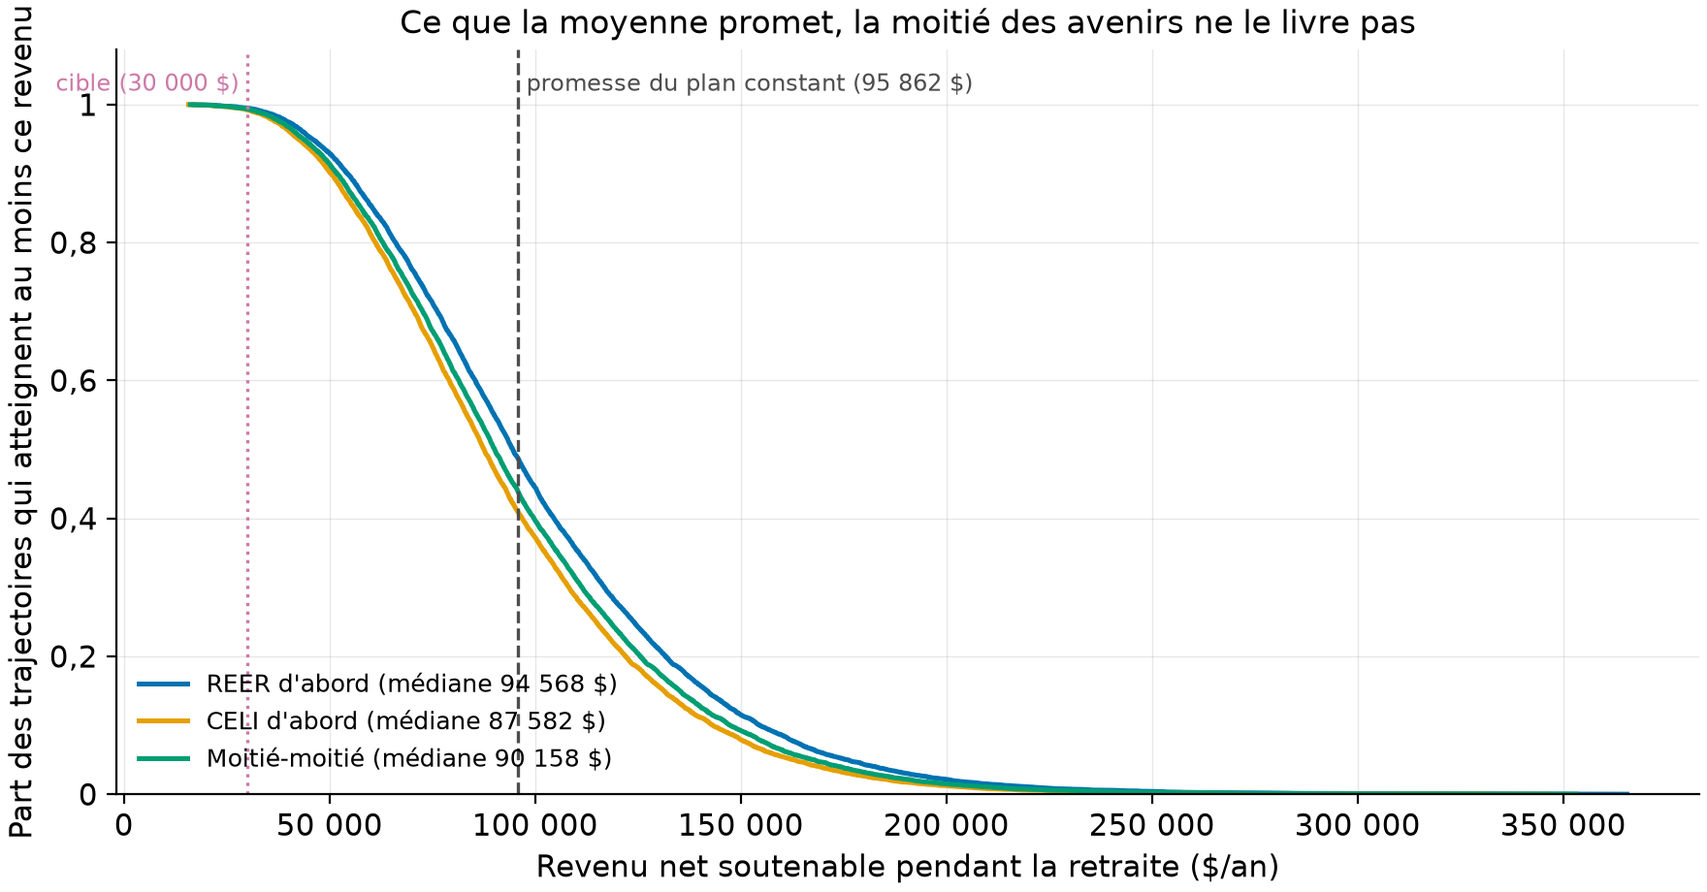
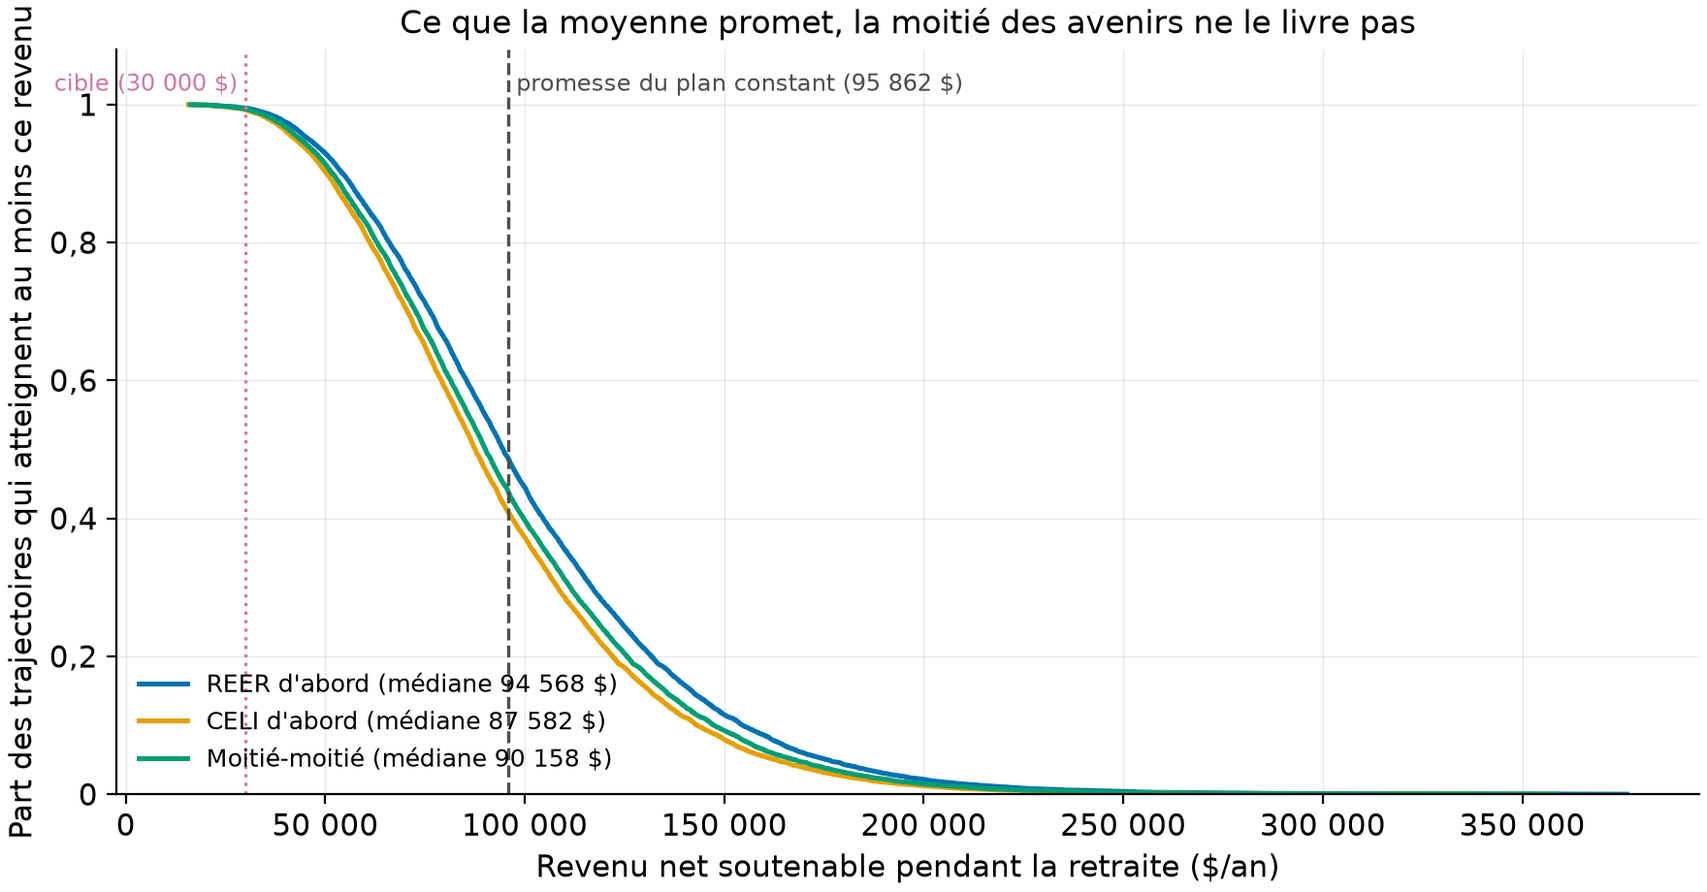
Contre-vérification : convention du remboursement déclarée et testée, borne de bissection prouvée
Trois vérificateurs (fiscalité, Monte Carlo, chiffres) ont retrouvé les
26 chiffres publiés au cent près avec des moteurs indépendants. Retouches :
le renversement du classement quand le remboursement d'impôt est dépensé
(-18,9 % au cas type) devient une option du moteur, un test et une limite ;
la borne haute de la bissection du revenu soutenable est remplacée par un
majorant prouvé (la richesse nette initiale) et testée contre l'annuité
due à rendement constant ; l'échec au scénario prudent est réécrit
« environ un sur dix » (8,8 à 12,0 %) au lieu d'« un sur vingt » ; le
prudent est décrit tel que codé (2/12 pt par mois, 2,1 pts composés) ;
48,7 % au lieu de 48 ; x3,2 au lieu du « simple au triple » ; 43 % au lieu
de « presque par deux » ; mois final tronqué et taux NI en décumulation
déclarés.

diff --git a/src/pec/fiscal.py b/src/pec/fiscal.py
@@ -1,13 +1,18 @@
 """Le moteur fiscal simplifié des trois comptes : REER, CELI, non enregistré.
 
 Toutes les règles sont des conventions déclarées, pas un barème réel :
-- REER : la cotisation est déductible ; le remboursement d'impôt est réinvesti immédiatement
-  dans le REER (convention du « grossing up » : un budget après impôt b achète b/(1 - tau_actif)
-  de cotisation brute) ; le retrait est imposé au taux marginal de retraite.
+- REER : la cotisation est déductible et se fait en dollars AVANT impôt ; la chaîne complète
+  des remboursements d'impôt est réinvestie (le remboursement, puis le remboursement du
+  remboursement, etc.), ce qui équivaut à cotiser b/(1 - tau_actif) pour un budget après
+  impôt b (convention du « grossing up ») ; le retrait est imposé au taux marginal de
+  retraite. Si le remboursement était DÉPENSÉ plutôt que réinvesti, le classement des ordres
+  s'inverserait : la convention porte le verdict, et c'est déclaré dans le README.
 - CELI : cotisé après impôt, croissance et retraits libres d'impôt.
 - Non enregistré : cotisé après impôt ; les gains sont réputés réalisés chaque année et imposés
-  à l'inclusion de 50 %, les pertes créditées immédiatement (simplification déclarée, prudente
-  pour les gains, généreuse pour les pertes).
+  à l'inclusion de 50 % AU TAUX DE LA VIE ACTIVE, y compris pendant la décumulation
+  (convention déclarée ; sans effet sur les chiffres publiés, le compte restant vide au cas
+  type), les pertes créditées immédiatement (simplification déclarée, prudente pour les
+  gains, généreuse pour les pertes).
 
 La vérité analytique qui sert de test : à taux marginaux égaux et sans plafond, REER et CELI
 produisent EXACTEMENT la même richesse finale ; le REER ne gagne que si le taux de retraite est
@@ -28,6 +33,7 @@ class Fiscalite:
     inclusion_gain: float = 0.5       # inclusion des gains en capital (rapporté, règle générale)
     plafond_celi: float = 7_000.0     # droits annuels 2026 (rapporté)
     plafond_reer: float = 12_960.0    # 18 % d'un revenu de 72 000 $ (cas type, précepte)
+    remboursement_reinvesti: bool = True   # False : le remboursement d'impôt REER est dépensé
 
 
 ORDRES = ("reer_d_abord", "celi_d_abord", "moitie_moitie")
@@ -42,11 +48,14 @@ def cotiser(budget: float, ordre: str, f: Fiscalite) -> tuple[float, float, floa
     """Répartit un budget APRÈS IMPÔT d'une année entre REER (brut), CELI et non enregistré."""
     if ordre not in ORDRES:
         raise ValueError(f"ordre inconnu : {ordre}")
-    cout_reer_plein = f.plafond_reer * (1.0 - f.tau_actif)   # coût après impôt du REER plafonné
+    # remboursement réinvesti : un budget après impôt b achète b/(1-t) de cotisation brute ;
+    # remboursement dépensé : il n'achète que b, et le REER perd l'essentiel de son avantage
+    gross = 1.0 / (1.0 - f.tau_actif) if f.remboursement_reinvesti else 1.0
+    cout_reer_plein = f.plafond_reer / gross                 # coût après impôt du REER plafonné
     reer_brut = celi = ni = 0.0
     if ordre == "reer_d_abord":
         b = min(budget, cout_reer_plein)
-        reer_brut = b / (1.0 - f.tau_actif)
+        reer_brut = b * gross
         reste = budget - b
         celi = min(reste, f.plafond_celi)
         ni = reste - celi
@@ -54,11 +63,11 @@ def cotiser(budget: float, ordre: str, f: Fiscalite) -> tuple[float, float, floa
         celi = min(budget, f.plafond_celi)
         reste = budget - celi
         b = min(reste, cout_reer_plein)
-        reer_brut = b / (1.0 - f.tau_actif)
+        reer_brut = b * gross
         ni = reste - b
     else:                                                   # moitie_moitie
         b = min(budget / 2.0, cout_reer_plein)
-        reer_brut = b / (1.0 - f.tau_actif)
+        reer_brut = b * gross
         celi = min(budget / 2.0, f.plafond_celi)
         ni = budget - b - celi
     return reer_brut, celi, ni
@@ -110,8 +119,12 @@ def richesse_nette(reer: float, celi: float, ni: float, f: Fiscalite) -> float:
 
 def revenu_soutenable(reer: float, celi: float, ni: float, rendements_annuels: np.ndarray,
                       f: Fiscalite, tol: float = 1.0) -> float:
-    """Le revenu net constant qui épuise exactement le patrimoine sur l'horizon, par bissection."""
-    bas, haut = 0.0, richesse_nette(reer, celi, ni, f) * 2.0 / max(len(rendements_annuels), 1) + 1e5
+    """Le revenu net constant qui épuise exactement le patrimoine sur l'horizon, par bissection.
+
+    Le premier retrait précède toute croissance : le revenu constant ne peut donc jamais
+    dépasser la richesse nette initiale, qui sert de borne haute prouvée.
+    """
+    bas, haut = 0.0, richesse_nette(reer, celi, ni, f) + 1.0
     while haut - bas > tol:
         mid = (bas + haut) / 2.0
         annees, _ = decumuler(reer, celi, ni, rendements_annuels, mid, f)

diff --git a/tests/test_pec.py b/tests/test_pec.py
@@ -75,6 +75,24 @@ def test_revenu_soutenable_retrouve_la_forme_fermee():
     f = Fiscalite(tau_actif=0.35, tau_retraite=0.25)
     rev = revenu_soutenable(0.0, 750_000.0, 0.0, np.zeros(25), f)
     assert rev == pytest.approx(30_000.0, abs=2.0)
+    # rendement constant non nul : annuité due, C = W (1 - v) / (1 - v^M), v = 1/(1+r)
+    r, w, m = 0.12, 5_000_000.0, 25
+    v = 1.0 / (1.0 + r)
+    attendu = w * (1.0 - v) / (1.0 - v**m)
+    assert revenu_soutenable(0.0, w, 0.0, np.full(m, r), f) == pytest.approx(attendu, abs=2.0)
+
+
+def test_remboursement_depense_renverse_le_classement():
+    # la convention porte le verdict : remboursement dépensé, le REER perd son avantage
+    from pec.fiscal import richesse_nette
+
+    r = np.full(30, 0.05)
+    f = Fiscalite(tau_actif=0.35, tau_retraite=0.25, remboursement_reinvesti=False)
+    w = {}
+    for ordre in ("reer_d_abord", "celi_d_abord"):
+        reer, celi, ni = accumuler(r, 10_000.0, ordre, f)
+        w[ordre] = richesse_nette(reer, celi, ni, f)
+    assert w["celi_d_abord"] > w["reer_d_abord"]
 
 
 def test_bootstrap_reproductible_et_calibre():

diff --git a/src/pec/simulate.py b/src/pec/simulate.py
@@ -79,10 +79,14 @@ def decumuler_vec(reer0: np.ndarray, celi0: np.ndarray, ni0: np.ndarray, ret: np
 
 def revenu_soutenable_vec(reer: np.ndarray, celi: np.ndarray, ni: np.ndarray, ret: np.ndarray,
                           f: Fiscalite, n_iter: int = 40) -> np.ndarray:
-    """Le revenu net constant qui épuise exactement chaque trajectoire, par bissection vectorielle."""
+    """Le revenu net constant qui épuise exactement chaque trajectoire, par bissection vectorielle.
+
+    Borne haute prouvée : la richesse nette initiale, car le premier retrait précède toute
+    croissance (l'ancienne borne en richesse/horizon plafonnait quelques trajectoires extrêmes).
+    """
     n_annees = ret.shape[1]
     bas = np.zeros(len(reer))
-    haut = richesse_nette(reer, celi, ni, f) * 2.0 / max(n_annees, 1) + 1e5
+    haut = richesse_nette(reer, celi, ni, f) + 1.0
     for _ in range(n_iter):
         mid = (bas + haut) / 2.0
         annees, _ = decumuler_vec(reer, celi, ni, ret, mid, f)

diff --git a/src/pec/data.py b/src/pec/data.py
@@ -27,7 +27,11 @@ def fetch() -> None:
 
 
 def load_portfolio_returns() -> pd.Series:
-    """Les rendements mensuels du portefeuille de politique, sur l'échantillon commun des six FNB."""
+    """Les rendements mensuels du portefeuille de politique, sur l'échantillon commun des six FNB.
+
+    Le dernier mois est retenu tel que téléchargé, même s'il est incomplet au jour du fetch
+    (convention déclarée ; l'effet mesuré sur le composé 2002-2026 est de 0,04 point).
+    """
     px = pd.read_csv(RAW / "prix_fnb.csv", index_col=0, parse_dates=True)
     monthly = px.resample("ME").last()
     rets = monthly.pct_change()

diff --git a/README.md b/README.md
@@ -10,9 +10,11 @@ tests analytiques exacts. Le seul dépôt du portfolio écrit pour un client fin
 1. **À taux d'imposition égaux, REER et CELI sont EXACTEMENT équivalents.** Ce n'est pas une
    opinion, c'est une identité algébrique, et le simulateur la retrouve à 1e-12 près (testé).
    Tout l'avantage du REER tient dans l'écart entre le taux marginal d'aujourd'hui et celui
-   de la retraite : au cas type (35 % actif, 25 % retraité), REER d'abord bat CELI d'abord
-   de 8,0 % de richesse nette médiane (1 193 538 $ contre 1 105 368 $, mesuré). La carte des
-   taux donne le verdict pour tous les autres profils.
+   de la retraite, POURVU que le remboursement d'impôt soit réinvesti : au cas type (35 %
+   actif, 25 % retraité), REER d'abord bat CELI d'abord de 8,0 % de richesse nette médiane
+   (1 193 538 $ contre 1 105 368 $, mesuré) ; le remboursement dépensé, le classement
+   s'inverse (-18,9 %, mesuré, testé). La carte des taux donne le verdict pour tous les
+   autres profils.
 2. **Ce que la moyenne promet, un avenir sur vingt n'en livre pas la moitié.** Le plan « sur
    papier » à rendement constant (7,17 %/an, le composé 2002-2026 du portefeuille) promet un
    revenu de retraite net de 95 862 $/an ; la médiane simulée le tient (94 568 $), mais le
@@ -37,12 +39,15 @@ une distribution.
 
 ## Le moteur fiscal, en conventions déclarées
 
-Trois comptes, trois traitements. Le REER, cotisé en argent AVANT impôt : la déduction est
-réinvestie immédiatement (convention du « grossing up » : un budget après impôt b achète
-b/(1 - t) de cotisation brute), et le retrait est imposé au taux de la retraite. Le CELI,
-cotisé après impôt, croît et se retire sans impôt. Le compte non enregistré, cotisé après
-impôt, subit chaque année un impôt sur ses gains à l'inclusion de 50 % (gains réputés
-réalisés annuellement, pertes créditées immédiatement : simplification déclarée).
+Trois comptes, trois traitements. Le REER, cotisé en dollars AVANT impôt : la chaîne
+complète des remboursements d'impôt est réinvestie (le remboursement, puis le remboursement
+du remboursement, et ainsi de suite), ce qui équivaut à cotiser b/(1 - t) pour un budget
+après impôt b (convention du « grossing up », déclarée ; l'option `remboursement_reinvesti`
+du moteur permet de la couper, et la limite 1 dit ce que cela renverse) ; le retrait est
+imposé au taux de la retraite. Le CELI, cotisé après impôt, croît et se retire sans impôt.
+Le compte non enregistré, cotisé après impôt, subit chaque année un impôt sur ses gains à
+l'inclusion de 50 % au taux de la vie active, décumulation comprise (gains réputés réalisés
+annuellement, pertes créditées immédiatement : simplifications déclarées).
 
 La vérité connue qui verrouille le moteur : à taux égaux et sans plafond,
 
@@ -67,7 +72,8 @@ séparent les trois ordres de remplissage quand les taux sont égaux.
 35 % pendant la vie active, 25 % à la retraite (chiffres ronds, pas un barème). Les
 rendements viennent du portefeuille de politique du dépôt 03 (XIU 25 %, XSP 20 %, XIN 15 %,
 XRE 5 %, XBB 25 %, XSB 10 %, mêmes poids, déclaré) : 286 rendements mensuels, 2002-11 à
-2026-08, via yfinance (usage personnel, jamais commité).
+2026-08, via yfinance (usage personnel, jamais commité ; le dernier mois est tronqué au
+jour du téléchargement, effet de 0,04 point sur le composé, déclaré).
 
 Le Monte Carlo tire des blocs de 12 mois CONSÉCUTIFS à départ aléatoire : les enchaînements
 d'une année de crise (2008, 2020, 2022) restent intacts, les années sont indépendantes entre
@@ -107,21 +113,23 @@ lisez votre case.
 contient la moitié centrale des avenirs, la bande pâle en contient 90 %. La ligne pointillée
 est le plan à rendement constant : il suit la médiane presque exactement (1 517 321 $ contre
 1 535 877 $ à l'an 30), et c'est le piège : le chiffre unique du planificateur est BON en
-espérance et muet sur l'éventail, qui va du simple au triple entre p5 et p95.
+espérance et muet sur l'éventail, qui fait plus que tripler entre p5 et p95 (x3,2 à
+l'an 30, mesuré).
 
 ![Revenu soutenable](results/figures/revenu_soutenable.png)
 
 **Comment lire cette figure.** Pour chaque revenu en abscisse, la part des trajectoires
 capables de le servir pendant 25 ans. La ligne verticale grise est la promesse du plan
-constant (95 862 $) : un peu moins de la moitié des avenirs la tiennent (48 % en REER
-d'abord, lisible à l'intersection). La cible de 30 000 $ (pointillé) est quasi sûre sur
+constant (95 862 $) : 48,7 % des avenirs la tiennent en REER d'abord (mesuré, lisible à
+l'intersection). La cible de 30 000 $ (pointillé) est quasi sûre sur
 l'historique brut ; le tableau prudent ci-dessous la met à l'épreuve.
 
 ## Verdict 3 : le scénario prudent (mesuré, `results/tables/resume_ordres_prudent.csv`)
 
 L'échantillon 2002-2026 compose à 7,17 %/an, porté par quinze années de marché haussier ;
-le futur n'y a droit à rien. Le scénario prudent retire 2 points par année aux mêmes tirages
-(convention déclarée, dans l'esprit des normes de projection de FP Canada) :
+le futur n'y a droit à rien. Le scénario prudent retire 2/12 de point à chaque rendement
+mensuel des mêmes tirages, soit 2,1 points de composé annuel (7,17 % à 5,06 % ; convention
+déclarée, dans l'esprit des normes de projection de FP Canada) :
 
 | Ordre | Rendement | P(30 000 $ atteints) | Revenu soutenable médian | p5 |
 |---|---|---|---|---|
@@ -129,18 +137,18 @@ le futur n'y a droit à rien. Le scénario prudent retire 2 points par année au
 | Moitié-moitié | 5,06 % | 89,3 % | 50 942 $ | 25 011 $ |
 | CELI d'abord | 5,06 % | 88,0 % | 49 486 $ | 24 296 $ |
 
-**Lecture guidée.** Deux points de rendement en moins divisent presque le revenu médian par
-deux (94 568 $ à 53 434 $) : la capitalisation amplifie tout, dans les deux sens. Et à ce
+**Lecture guidée.** Deux points de rendement en moins retranchent 43 % du revenu médian
+(94 568 $ à 53 434 $) : la capitalisation amplifie tout, dans les deux sens. Et à ce
 niveau, l'ordre de remplissage cesse d'être cosmétique : 3,2 points de probabilité de
-réussite séparent REER d'abord de CELI d'abord, et le 5e percentile passe SOUS la cible
-dans tous les cas : environ un avenir sur vingt ne finance pas 30 000 $/an, quel que soit
-l'ordre.
+réussite séparent REER d'abord de CELI d'abord, et l'échec devient courant : 8,8 % des
+avenirs ne financent pas 30 000 $/an en REER d'abord, 12,0 % en CELI d'abord, environ un
+sur dix.
 
 ## Reproduire
 
 ```bash
 uv sync --locked --all-extras
-uv run pytest          # 10 tests analytiques, sans réseau
+uv run pytest          # 11 tests analytiques, sans réseau
 uv run pec fetch       # six FNB, yfinance (usage personnel)
 uv run pec simulate    # 3 ordres x 10 000 trajectoires + prudent + carte (~40 s)
 ```
@@ -148,28 +156,37 @@ uv run pec simulate    # 3 ordres x 10 000 trajectoires + prudent + carte (~40 s
 Les tests sont des vérités fermées : équivalence REER/CELI exacte à taux égaux, facteur
 (1 - t_r)/(1 - t_a) exact à taux différents, plafonds respectés au dollar, décumulation à
 rendement nul contre la forme fermée (750 000 $ financent exactement 25 ans à 30 000 $
-depuis un CELI, 1 000 000 $ depuis un REER à 25 %), bissection retrouvant la forme fermée,
+depuis un CELI, 1 000 000 $ depuis un REER à 25 %), bissection retrouvant l'annuité due à
+rendement nul ET constant, renversement du classement quand le remboursement est dépensé,
 bootstrap reproductible à graine fixée, moteur vectoriel contraint d'égaler le scalaire,
 carte neutre sur la diagonale.
 
 ## Limites, avec statut
 
-1. **La fiscalité est une maquette.** Taux marginaux constants par période, pas de paliers,
+1. **Le verdict REER dépend de la convention de réinvestissement.** Le moteur réinvestit
+   la chaîne complète des remboursements d'impôt ; si le remboursement est DÉPENSÉ, le
+   classement s'inverse au cas type (CELI d'abord gagne de 18,9 % de richesse nette,
+   mesuré, option `remboursement_reinvesti=False` et test dédié). L'avantage du REER est
+   un pari sur les deux taux À CONVENTION DONNÉE, et la discipline de réinvestir le
+   remboursement en fait partie. (Mesuré.)
+2. **La fiscalité est une maquette.** Taux marginaux constants par période, pas de paliers,
    pas de PSV ni de RRQ, pas de récupération de la PSV, pas de FERR à retraits minimums, pas
    de crédit d'impôt sur dividendes ; le non enregistré impose tout à l'inclusion de 50 %
-   chaque année. Chaque règle est déclarée dans `fiscal.py` ; la récupération de la PSV se
-   lit dans la carte comme un taux de retraite effectif plus élevé. (Précepte.)
-2. **L'échantillon de rendements est court et heureux.** 286 mois dont un seul grand krach ;
+   chaque année, au taux de la vie active même pendant la décumulation (sans effet ici, le
+   compte restant vide au cas type, déclaré). Chaque règle est déclarée dans `fiscal.py` ;
+   la récupération de la PSV se lit dans la carte comme un taux de retraite effectif plus
+   élevé. (Précepte.)
+3. **L'échantillon de rendements est court et heureux.** 286 mois dont un seul grand krach ;
    le bootstrap ne crée pas de crises qu'il n'a pas vues ; le scénario prudent est la
    réponse déclarée, pas une prévision. (Mesuré pour l'échantillon, précepte pour le
    prudent.)
-3. **Les années simulées sont indépendantes.** Les blocs de 12 mois préservent les
+4. **Les années simulées sont indépendantes.** Les blocs de 12 mois préservent les
    enchaînements intra-année, pas les cycles pluriannuels (un marché baissier de trois ans
    est sous-représenté). (Déclaré.)
-4. **Les plafonds sont figés** au niveau 2026 pendant 30 ans, sans indexation ni droits
+5. **Les plafonds sont figés** au niveau 2026 pendant 30 ans, sans indexation ni droits
    inutilisés reportés. (Déclaré ; l'indexation des deux plafonds jouerait dans le même
    sens pour les trois ordres.)
-5. **Aucun conseil.** Ce dépôt compare des mécaniques sous hypothèses déclarées ; il ne
+6. **Aucun conseil.** Ce dépôt compare des mécaniques sous hypothèses déclarées ; il ne
    connaît ni votre revenu, ni vos taux réels, ni votre tolérance au risque.
 
 ## Références
@@ -191,12 +208,14 @@ with the tax mechanics locked by exact analytic tests: with equal marginal tax r
 caps, RRSP and TFSA compound to the SAME final dollar (tested to 1e-12), and the entire
 RRSP advantage is the factor (1 - t_ret)/(1 - t_work). Base case (35 % working, 25 %
 retired): RRSP-first beats TFSA-first by 8.0 % of median after-tax wealth; a tax-rate map
-gives the verdict for every other profile, exactly zero on the diagonal. The deterministic
+gives the verdict for every other profile, exactly zero on the diagonal. The verdict
+assumes the tax refund is fully reinvested: spent instead, the ranking flips (TFSA-first
+wins by 18.9 %, measured and tested). The deterministic
 plan (7.17 %/yr, the 2002-2026 compound) promises a $95,862 sustainable retirement income;
 the simulated median delivers it, but the 5th percentile is $45,855. Under a declared
 prudent scenario (returns minus 2 points), the basic $30,000 target is only reached in
 91.2 % of futures (RRSP-first) versus 88.0 % (TFSA-first): filling order buys 3 points of
-success probability. Simplified declared tax conventions, no OAS/QPP, no advice; 10
+success probability. Simplified declared tax conventions, no OAS/QPP, no advice; 11
 closed-form tests, no network.
 
 ## Licence et citation

diff --git a/reports/note_plan_epargne.md b/reports/note_plan_epargne.md
@@ -7,14 +7,16 @@ cas type : 10 000 $ d'épargne par an pendant 30 ans, 25 ans de retraite, taux m
 
 ## Ce que le simulateur établit
 
-**1. Le choix REER ou CELI est un pari sur vos deux taux d'imposition, rien d'autre.**
-À taux égaux, les deux comptes produisent exactement le même dollar final : c'est une
-identité algébrique, pas une opinion, et le simulateur la vérifie à la douzième décimale.
-Votre taux baissera à la retraite ? Le REER gagne, du facteur exact
-(1 - taux retraite)/(1 - taux actif) : au cas type, 15 % de plus par dollar cotisé, et
-8,0 % de richesse nette finale une fois les plafonds respectés. Votre taux MONTERA (gros
-FERR, récupération de la Sécurité de la vieillesse) ? Le CELI gagne, symétriquement. La
-carte des taux du rapport donne votre case en dix secondes.
+**1. Le choix REER ou CELI est un pari sur vos deux taux d'imposition, à une discipline
+près : réinvestir le remboursement.** À taux égaux, les deux comptes produisent exactement
+le même dollar final : c'est une identité algébrique, pas une opinion, et le simulateur la
+vérifie à la douzième décimale. Votre taux baissera à la retraite ? Le REER gagne, du
+facteur exact (1 - taux retraite)/(1 - taux actif) : au cas type, 15 % de plus par dollar
+cotisé, et 8,0 % de richesse nette finale une fois les plafonds respectés. Votre taux
+MONTERA (gros FERR, récupération de la Sécurité de la vieillesse) ? Le CELI gagne,
+symétriquement. Et si le remboursement d'impôt du REER est dépensé au lieu d'être
+réinvesti, le classement s'inverse entièrement (mesuré : -18,9 % au cas type). La carte
+des taux du rapport donne votre case en dix secondes.
 
 **2. Le chiffre unique d'un plan de retraite est bon en moyenne et muet sur le risque.**
 Le plan « sur papier » du cas type, calé sur le rendement composé 2002-2026 du
@@ -47,12 +49,14 @@ declared assumptions; not financial advice. Figures as of 2026-08-29; base case:
 saved yearly for 30 years, 25 years of retirement, 35 % marginal tax while working, 25 %
 retired (replace with your own).
 
-**1. RRSP vs. TFSA is a bet on your two tax rates, nothing else.** At equal rates the two
-accounts compound to exactly the same final dollar (an algebraic identity, verified by the
-simulator to twelve decimals). If your rate falls in retirement, the RRSP wins by exactly
-(1 - t_ret)/(1 - t_work): 15 % more per dollar at the base case, 8.0 % more final
-after-tax wealth once contribution caps bind. If your rate will RISE (large RRIF, OAS
-clawback), the TFSA wins, symmetrically: read your cell in the tax-rate map.
+**1. RRSP vs. TFSA is a bet on your two tax rates, plus one discipline: reinvesting the
+refund.** At equal rates the two accounts compound to exactly the same final dollar (an
+algebraic identity, verified by the simulator to twelve decimals). If your rate falls in
+retirement, the RRSP wins by exactly (1 - t_ret)/(1 - t_work): 15 % more per dollar at the
+base case, 8.0 % more final after-tax wealth once contribution caps bind. If your rate
+will RISE (large RRIF, OAS clawback), the TFSA wins, symmetrically: read your cell in the
+tax-rate map. And if the RRSP refund is spent rather than reinvested, the ranking flips
+entirely (measured: -18.9 % at the base case).
 
 **2. A single-number retirement plan is right on average and silent about risk.** The
 paper plan (7.17 %/yr, the 2002-2026 compound of the policy portfolio) promises $95,862
